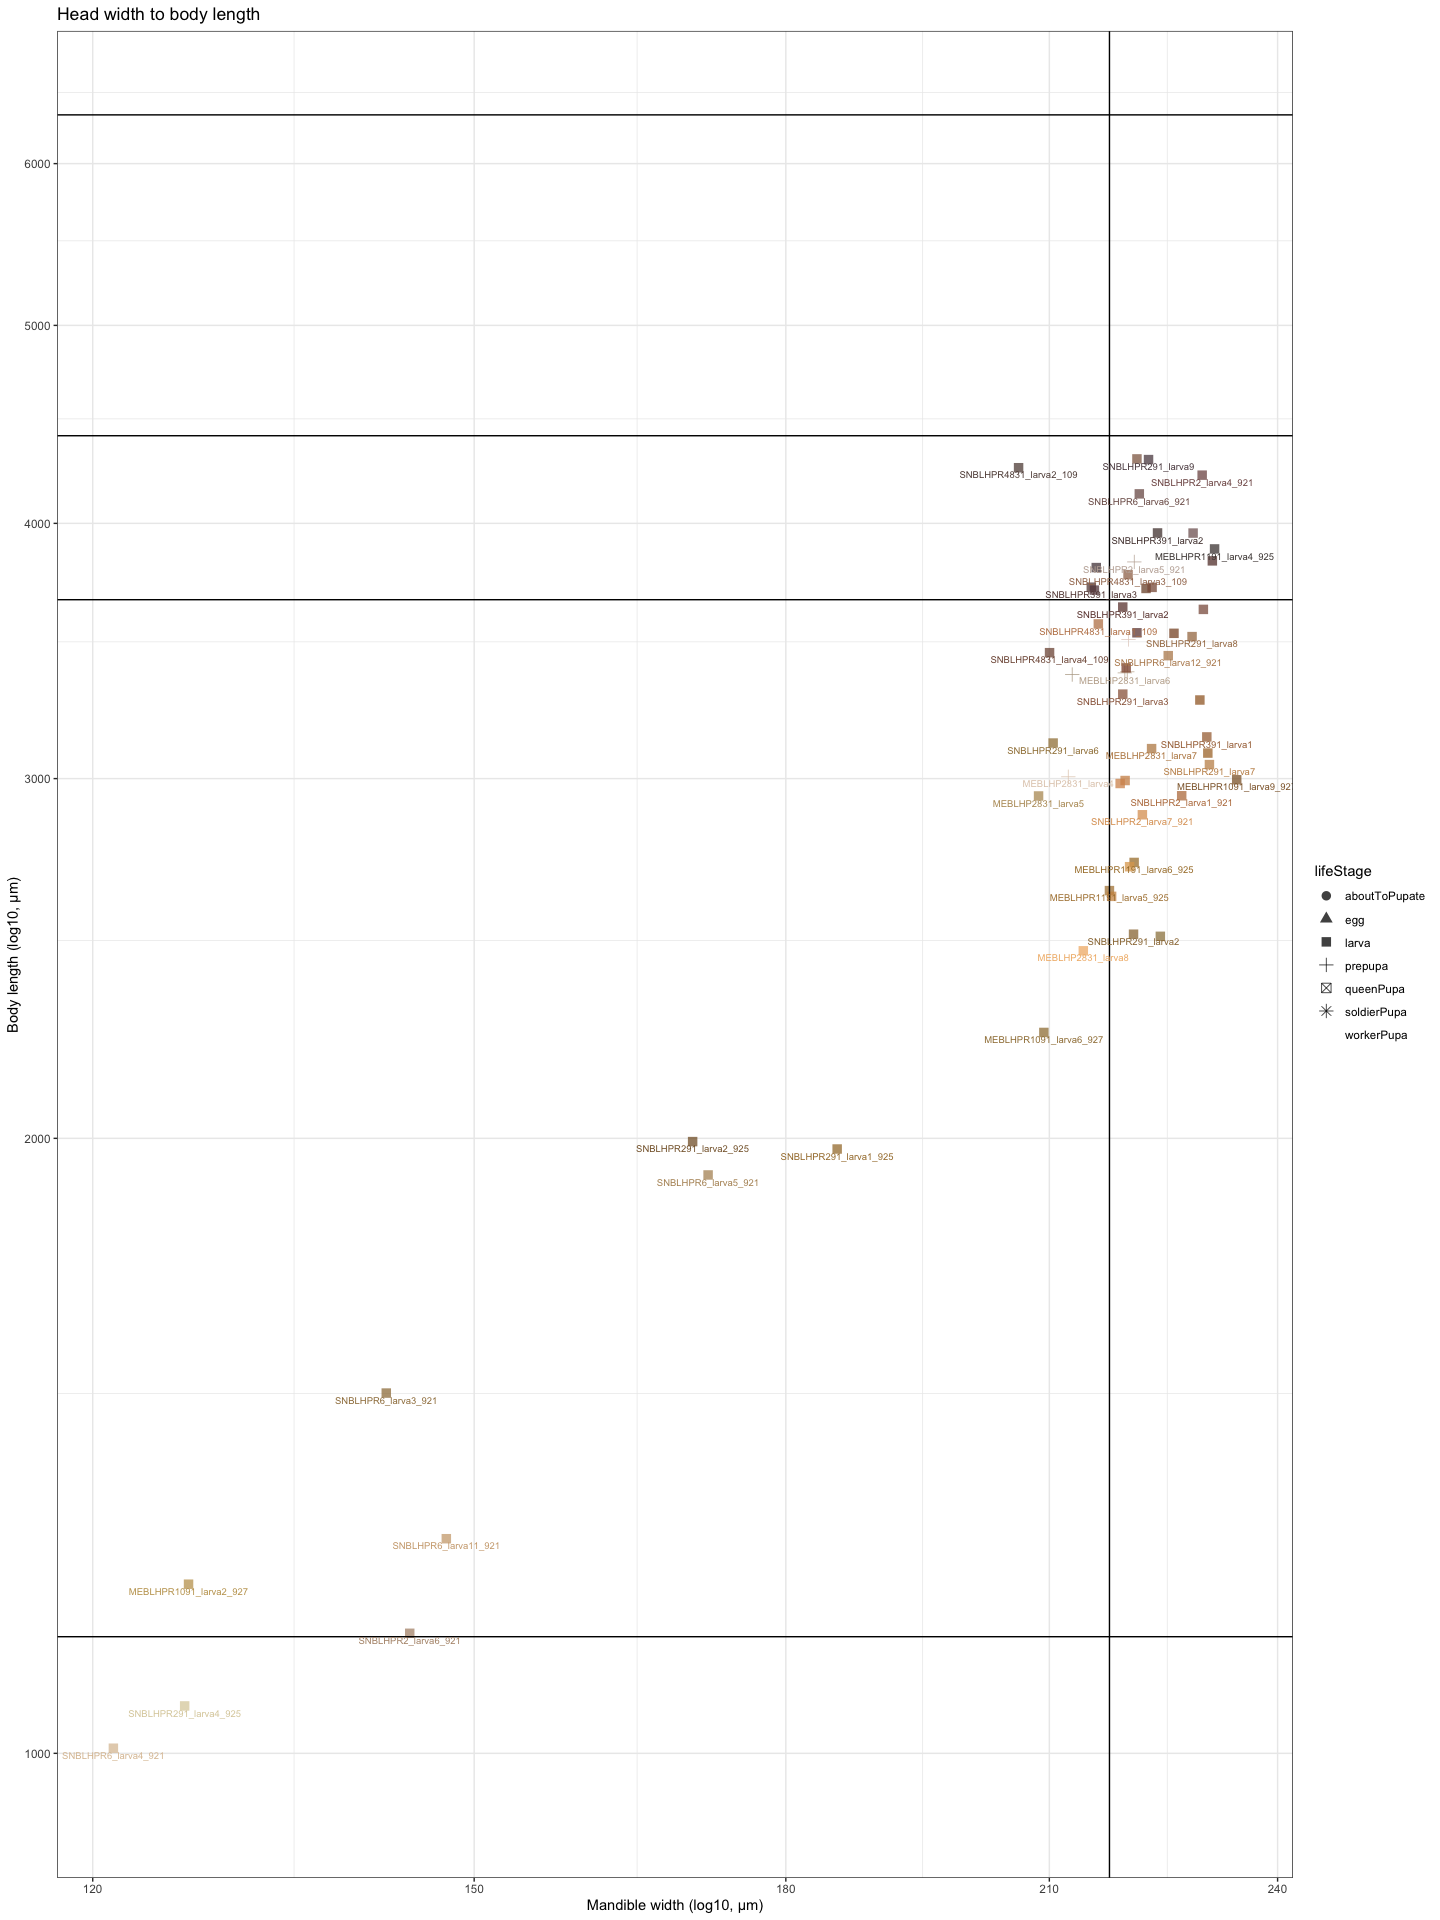
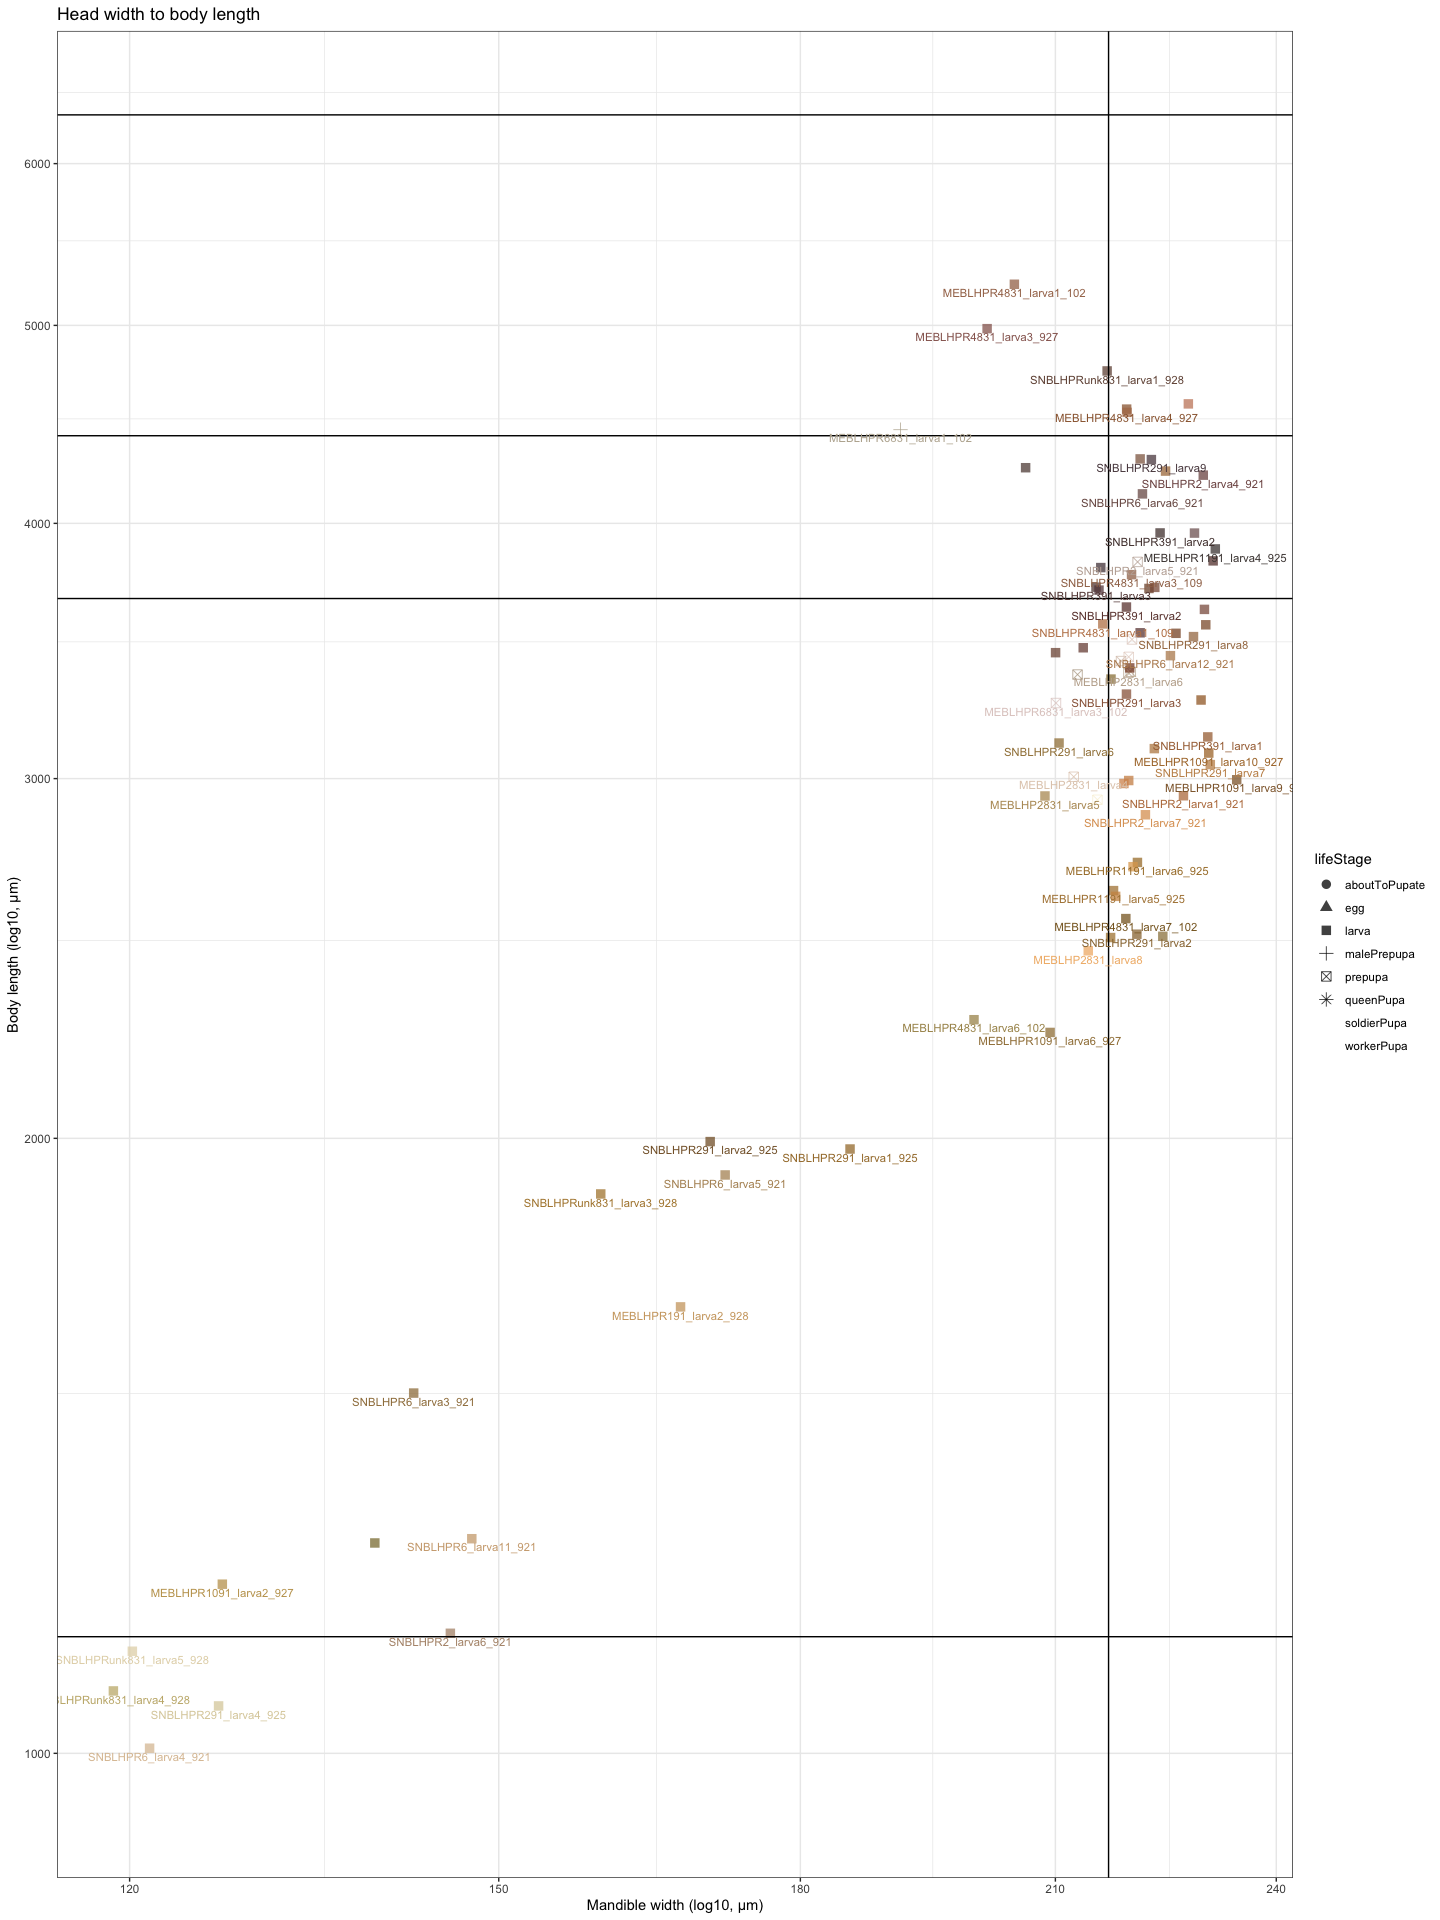
Adding data.

diff --git a/README.md b/README.md
@@ -9,17 +9,17 @@ benchmarks noted:
 
     ## [1] "Soldier pupa mean body length is 4415.2576 uM"
 
-    ## [1] "Worker pupa mean body length is 3664.84517142857 uM"
+    ## [1] "Worker pupa mean body length is 3651.85539534884 uM"
 
     ## [1] "Queen pupa mean body length is 6338.89 uM"
 
     ## [1] "Male pupa mean body length is 4647.183 uM"
 
-    ## [1] "The mean prepupal head width is 217.293466666667 uM"
+    ## [1] "The mean prepupal head width is 217.2765625 uM"
 
 ![](README_files/figure-gfm/scatterplot-1.png)<!-- -->
 
 Note that three larvae from MEBLHPR4831 are currently developing into
-queens (I think) and have been measured on 9/27 and 10/02.
+queens (I think) and have been measured on 9/27, 10/02, and 10/13.
 
 ![](README_files/figure-gfm/barplot-1.png)<!-- -->
